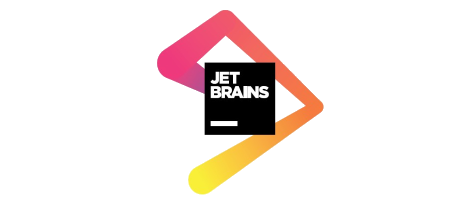
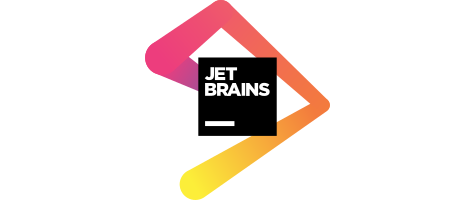
Add JetBrains as Sapphire sponsor of 2017 edition

diff --git a/index.html b/index.html
@@ -191,6 +191,11 @@
                 <img src="assets/img/sponsors/xpugbo.png" title="XPugBO" alt="XPugBO">
               </a>
             </li>
+            <li class="sponsor sapphire">
+              <a href="http://www.jetbrains.com" target="_blank">
+                <img src="assets/img/sponsors/jetbrains.png" title="JetBrains" alt="JetBrains">
+              </a>
+            </li>
             <li class="sponsor advertiser_">
               <a href="http://www.coderstug.org" target="_blank">
                 <img src="assets/img/sponsors/coderstug.png" title="Coders TUG" alt="Coders TUG">
